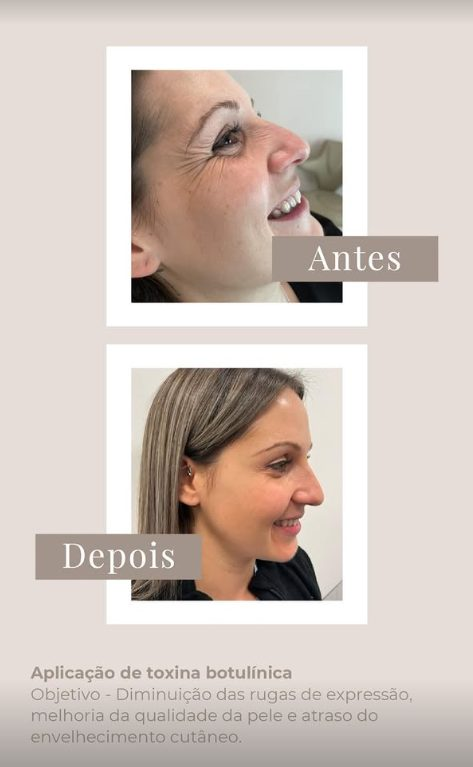
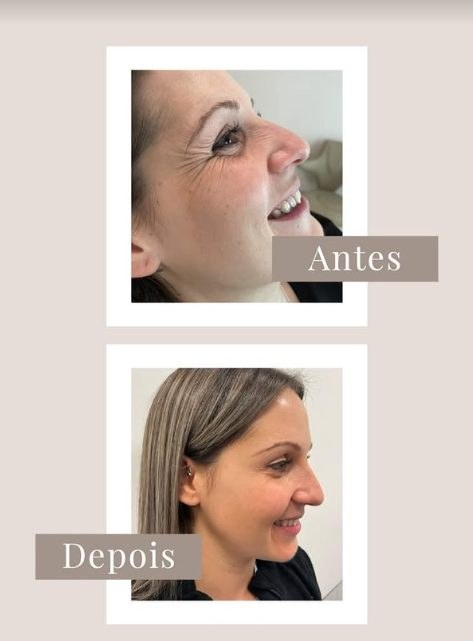
Antes/Depois: legenda como rodapé HTML fixo + botões 'Agendar'
- Corta o texto embutido nas fotos (mantém só as fotos + etiquetas Antes/Depois)
- Adiciona título e descrição como HTML próprio (figcaption), num rodapé fixo
  que permanece legível durante o hover (só a foto tem o efeito de zoom)
- Renomeia todos os botões de 'Marcar consulta' para 'Agendar consulta'

diff --git a/index.html b/index.html
@@ -49,7 +49,7 @@
       <a href="#testemunhos">Testemunhos</a>
       <a href="#contacto">Contacto</a>
     </nav>
-    <a href="https://wa.me/351969704868" class="btn btn-primary btn-small" target="_blank" rel="noopener">Marcar consulta</a>
+    <a href="https://wa.me/351969704868" class="btn btn-primary btn-small" target="_blank" rel="noopener">Agendar consulta</a>
     <button class="nav-toggle" aria-label="Abrir menu" aria-expanded="false">
       <span></span><span></span><span></span>
     </button>
@@ -73,7 +73,7 @@
       <h1>Medicina Estética com <em>Ciência</em> e <em>Naturalidade</em></h1>
       <p class="lead">Harmonização facial e corporal em Braga — tratamentos personalizados pela Dra. Joana Bravo.</p>
       <div class="hero-actions">
-        <a href="https://wa.me/351969704868" class="btn btn-primary" target="_blank" rel="noopener">Marcar consulta no WhatsApp</a>
+        <a href="https://wa.me/351969704868" class="btn btn-primary" target="_blank" rel="noopener">Agendar consulta no WhatsApp</a>
         <a href="#servicos" class="btn btn-ghost">Ver serviços</a>
       </div>
     </div>
@@ -178,13 +178,31 @@
     </div>
     <div class="gallery-grid">
       <figure class="gallery-item">
-        <img src="images/antes-depois-1.jpg" alt="Antes e depois de aplicação de toxina botulínica: diminuição das rugas de expressão e melhoria da qualidade da pele" loading="lazy" width="473" height="767">
+        <div class="gallery-photo">
+          <img src="images/antes-depois-1.jpg" alt="Antes e depois de aplicação de toxina botulínica" loading="lazy" width="473" height="641">
+        </div>
+        <figcaption class="gallery-caption">
+          <h3>Aplicação de toxina botulínica</h3>
+          <p>Objetivo - Diminuição das rugas de expressão, melhoria da qualidade da pele e atraso do envelhecimento cutâneo.</p>
+        </figcaption>
       </figure>
       <figure class="gallery-item">
-        <img src="images/antes-depois-2.jpg" alt="Antes e depois de preenchimento labial: redefinição do contorno com discreto aumento de volume" loading="lazy" width="458" height="740">
+        <div class="gallery-photo">
+          <img src="images/antes-depois-2.jpg" alt="Antes e depois de preenchimento labial" loading="lazy" width="458" height="629">
+        </div>
+        <figcaption class="gallery-caption">
+          <h3>Preenchimento labial</h3>
+          <p>Objetivo - redefinição labial com discreto aumento de volume para um efeito natural.</p>
+        </figcaption>
       </figure>
       <figure class="gallery-item">
-        <img src="images/antes-depois-3.jpg" alt="Antes e depois de aplicação de ácido hialurónico: suavização dos sulcos nasogenianos e linhas de marionete" loading="lazy" width="468" height="754">
+        <div class="gallery-photo">
+          <img src="images/antes-depois-3.jpg" alt="Antes e depois de aplicação de ácido hialurónico" loading="lazy" width="468" height="638">
+        </div>
+        <figcaption class="gallery-caption">
+          <h3>Aplicação de ácido hialurónico</h3>
+          <p>Objetivo - Diminuição das rugas de expressão nos sulcos nasogenianos e linhas de marionete.</p>
+        </figcaption>
       </figure>
     </div>
     <p class="gallery-tagline">Resultados reais, beleza natural</p>
@@ -231,7 +249,7 @@
         <p><strong>Morada</strong><br>Praça Conde de Agrolongo 183, 4700-315 Braga, Portugal</p>
         <p><strong>WhatsApp</strong><br><a href="https://wa.me/351969704868" target="_blank" rel="noopener">+351 969 704 868</a></p>
         <p><strong>Instagram</strong><br><a href="https://www.instagram.com/dra.joanabravo" target="_blank" rel="noopener">@dra.joanabravo</a></p>
-        <a href="https://wa.me/351969704868" class="btn btn-primary" target="_blank" rel="noopener">Marcar consulta no WhatsApp</a>
+        <a href="https://wa.me/351969704868" class="btn btn-primary" target="_blank" rel="noopener">Agendar consulta no WhatsApp</a>
       </div>
       <div class="contact-map">
         <iframe

diff --git a/styles.css b/styles.css
@@ -286,9 +286,9 @@ h1 em, h2 em { font-style: italic; color: var(--primary); }
 .service-card p { margin: 0; color: var(--muted-foreground); font-size: .95rem; }
 
 /* ---------- Galeria antes/depois ---------- */
-/* Nota: as próprias fotos já trazem a moldura, as etiquetas "Antes/Depois" e o texto
-   embutidos na imagem (design do site original) — por isso mostramos a imagem completa,
-   sem cortar (nada de object-fit:cover nem height:100%, senão corta-se o texto de baixo). */
+/* As fotos trazem a moldura e as etiquetas "Antes/Depois" embutidas (imagem já cortada
+   sem o texto de legenda); a legenda (título + descrição) é HTML próprio, num rodapé
+   fixo que não é afetado pelo zoom do hover — só a foto amplia. */
 .gallery-grid {
   display: grid;
   grid-template-columns: repeat(auto-fit, minmax(240px, 1fr));
@@ -300,9 +300,11 @@ h1 em, h2 em { font-style: italic; color: var(--primary); }
   border-radius: 18px;
   overflow: hidden;
   border: 1px solid var(--border);
+  background: var(--card);
   box-shadow: 0 12px 28px -18px var(--shadow-tint-soft);
   transition: box-shadow .25s ease, transform .25s ease;
 }
+.gallery-photo { overflow: hidden; }
 .gallery-item img {
   width: 100%;
   height: auto;
@@ -314,6 +316,9 @@ h1 em, h2 em { font-style: italic; color: var(--primary); }
   box-shadow: 0 20px 40px -20px var(--shadow-tint);
 }
 .gallery-item:hover img { transform: scale(1.06); }
+.gallery-caption { padding: 1.3rem 1.5rem 1.5rem; }
+.gallery-caption h3 { font-size: 1.05rem; font-family: var(--font-sans); font-weight: 500; margin: 0 0 .4em; }
+.gallery-caption p { margin: 0; color: var(--muted-foreground); font-size: .9rem; line-height: 1.5; }
 .gallery-tagline {
   text-align: center;
   font-family: var(--font-serif);
